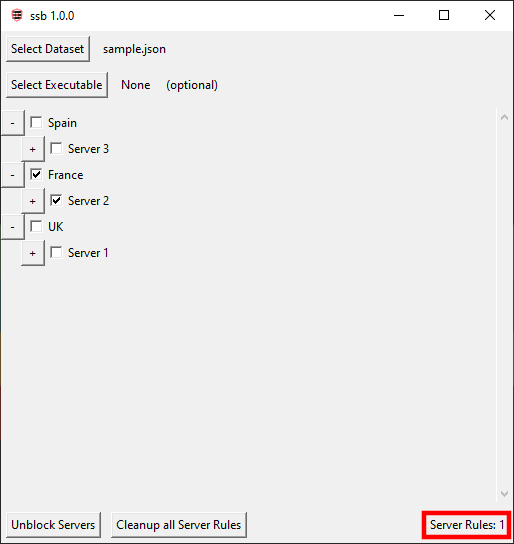
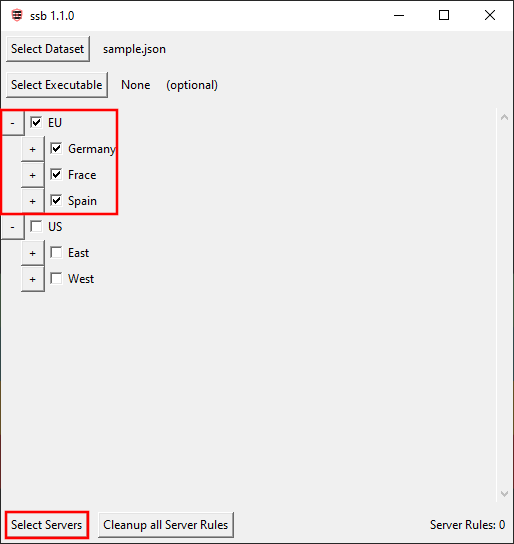
Updated README.md

diff --git a/README.md b/README.md
@@ -11,32 +11,30 @@
 
    Choose a program if you want the firewall rules to apply only to a specific application, if left empty, rules will apply system-wide.
 
-3. **Select what to block**
+3. **Select which servers you want to use(everything else will be blacklisted)**
 
 4. **Apply the rules**
-   Click **`Block Servers`**
-   
-    → The app will automatically:
 
-   * Collect all relevant IPs from your selection
-   * Generate the necessary firewall rules
-   * Apply them to your system
+   Click **`Select Servers`**
 
 5. **Toggle rules on/off**
-   The button will switch to **`Unblock Servers`**, allowing you to quickly remove the applied rules.
+
+   The button will switch to **`Unselect Servers`**, allowing you to quickly remove the applied rules.
 
 6. **Clean up all server rules**
+
    Click **`Cleanup all Server Rules`** to remove all rules created by the tool.
 
 7. **Monitor active rules**
+
    The UI displays the number of currently active custom firewall rules.
 
 ## Dataset Samples
-<a href="https://pastebin.com/mgWsNpxx">https://pastebin.com/mgWsNpxx</a>
+<a href="https://pastebin.com/Zmh02Gnk">https://pastebin.com/Zmh02Gnk</a>
 
-<a href="https://pastebin.com/hs1xSi1P">https://pastebin.com/hs1xSi1P</a>
+<a href="https://pastebin.com/wx0ubK5q">https://pastebin.com/wx0ubK5q</a>
 ## Build
-Make sure you have ![python3](https://www.python.org/downloads/) installed on your system.
+Make sure you have [python3](https://www.python.org/downloads/) installed on your system.
 ### 1. Install PyInstaller
 
 ```bat
@@ -57,20 +55,34 @@ build.bat
 
 ```text
 dist\
-└── main.exe
+└── ssb.exe
 ```
 
 ## Screenshots
-![Blocking french server using a sample.json dataset](assets/screenshot1.png)
-![Active rule](assets/screenshot2.png)
+![Selecting dataset](assets/screenshot1.png)
+![Selecting EU Servers (Blocking US ones)](assets/screenshot2.png)
+![Activating rules](assets/screenshot3.png)
 ## Donate
 Donate to support me and my projects
 
-| [![PayPal](https://www.paypalobjects.com/marketing/web/logos/paypal-mark-color_new.svg)](https://paypal.me/raafaa99) | ![Bitcoin](assets/bitcoin.png) | ![Monero](assets/monero.png) |
-| :---: | :---: | :---: |
-| PayPal | Bitcoin | Monero |
-| [raafaa99](https://paypal.me/raafaa99) | 1MvzcDqAVfuQLYZKNCcBoVNYe2neta3pkM | 4254FmcCGBNbaq9CcqkUSk8eY3cqACjrGXRWkxXxXbjD1Up3Nu4BsCA1YCkrnrzG4SUmwDJQnBYJoeLrucWSDRhyRchRAHP |
+### PayPal
+<a href="https://paypal.me/raafaa99">
+   <img src="https://www.paypalobjects.com/marketing/web/logos/paypal-mark-color_new.svg" alt="PayPal" width="100px">
+</a>
 
+### Bitcoin
+<a href="assets/bitcoin.png">
+   <img src="assets/bitcoin.png" alt="Bitcoin" width="100px">
+</a>
+
+(1MvzcDqAVfuQLYZKNCcBoVNYe2neta3pkM)
+
+### Monero
+<a href="assets/monero.png">
+   <img src="assets/monero.png" alt="Monero" width="100px">
+</a>
+
+(4254FmcCGBNbaq9CcqkUSk8eY3cqACjrGXRWkxXxXbjD1Up3Nu4BsCA1YCkrnrzG4SUmwDJQnBYJoeLrucWSDRhyRchRAHP)
 
 ## License
 [![GNU GPLv3 Image](https://www.gnu.org/graphics/gplv3-127x51.png)](https://www.gnu.org/licenses/gpl-3.0.en.html)  
